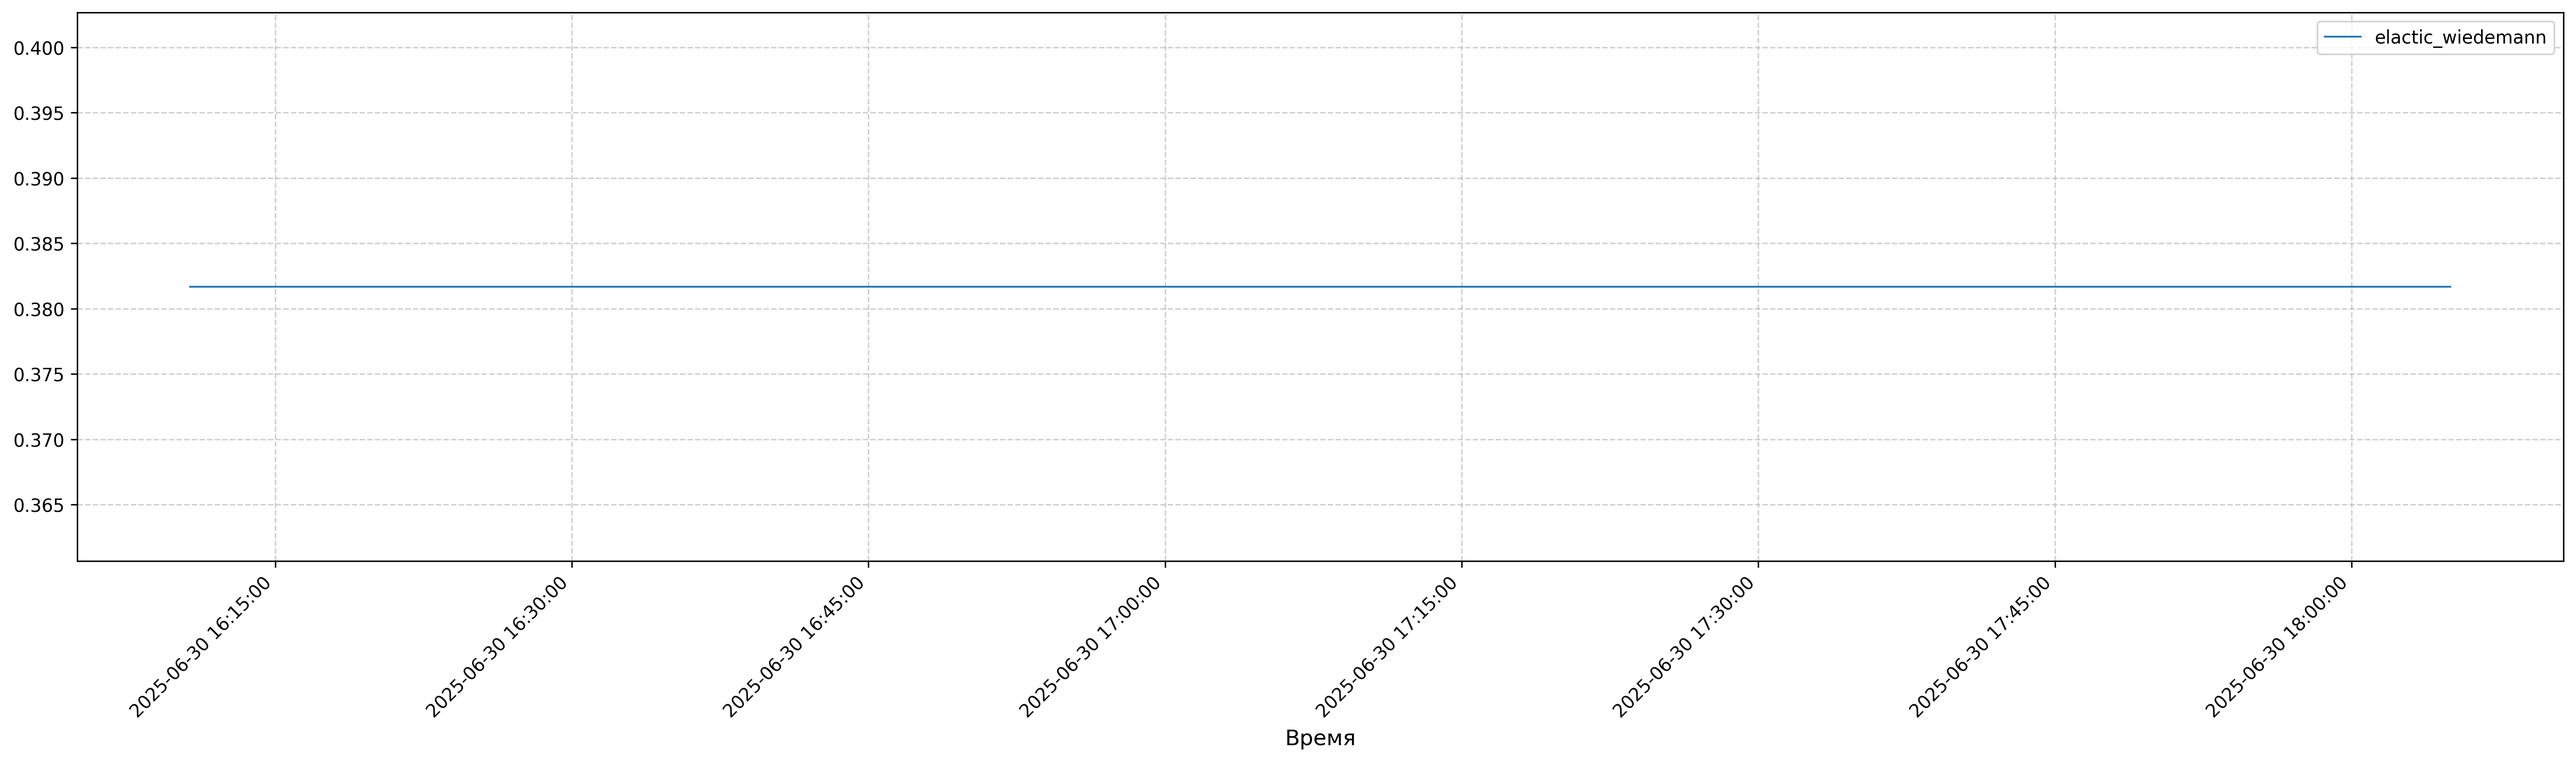
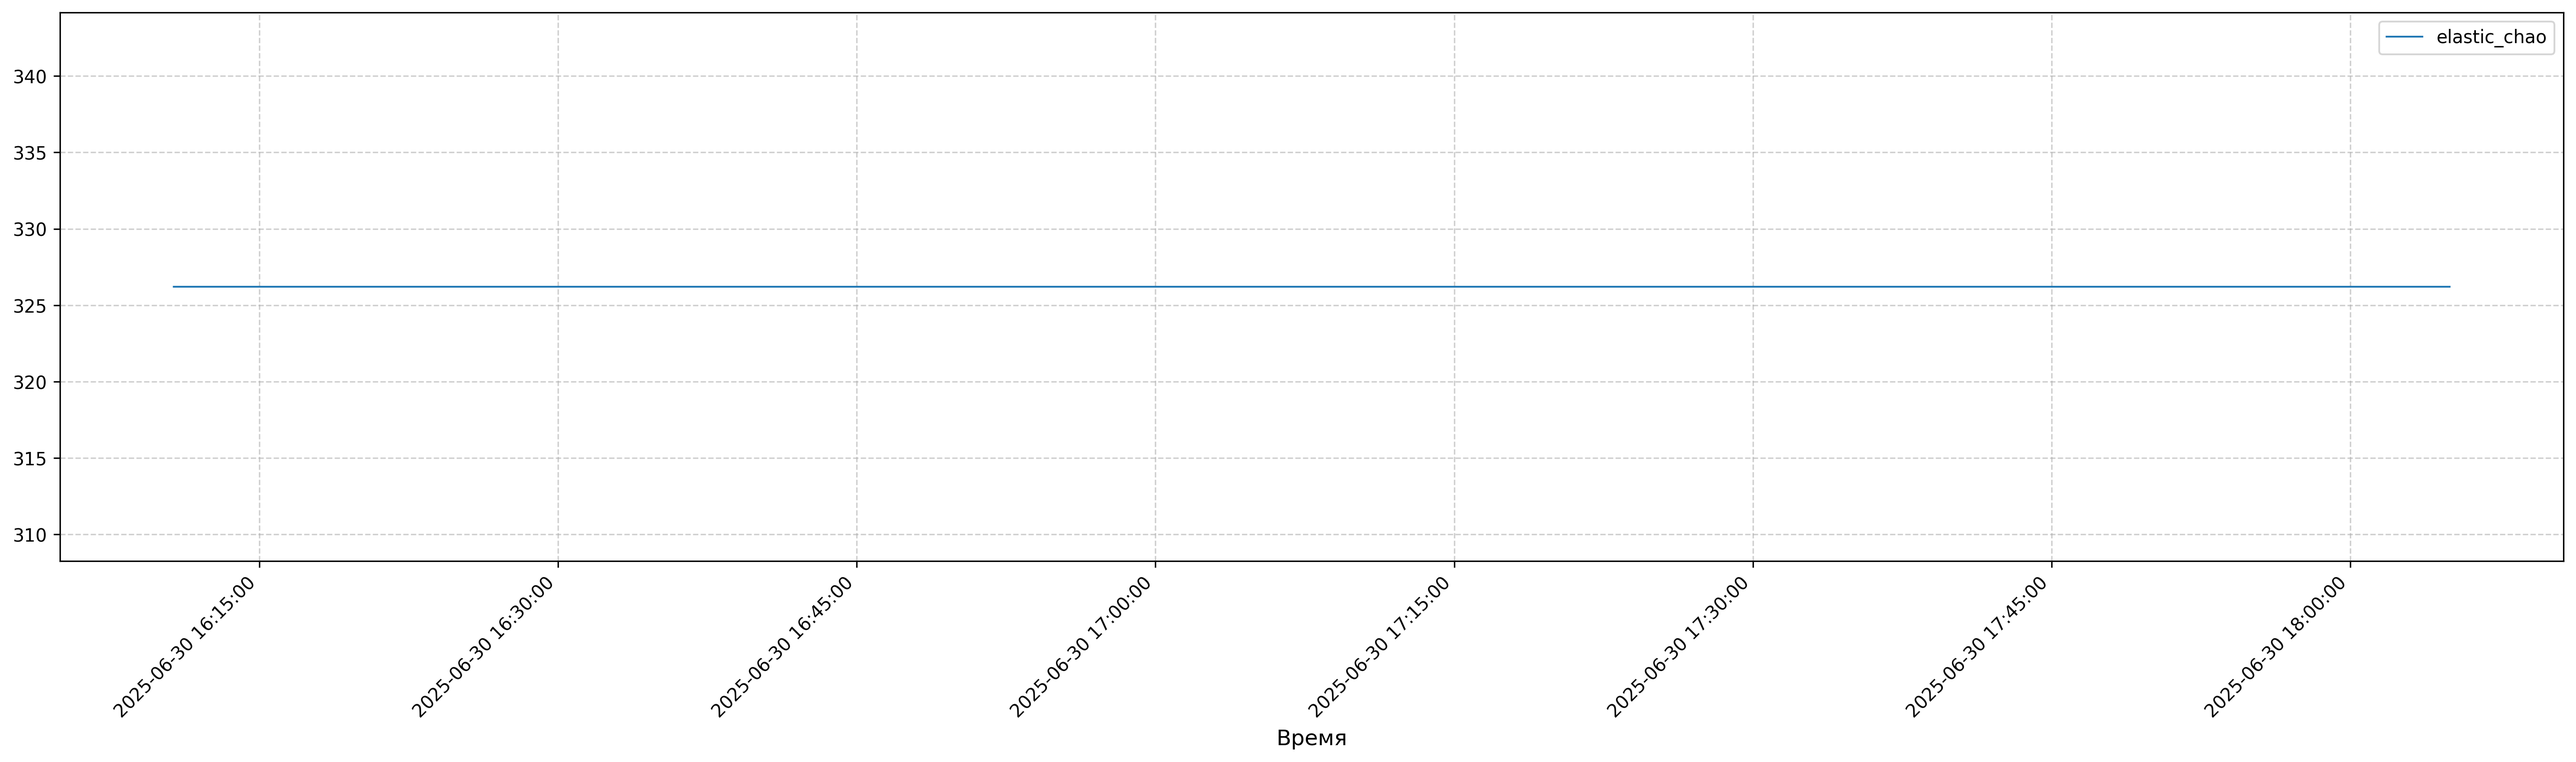
some refactoring

diff --git a/scat.py b/scat.py
@@ -5,8 +5,8 @@ import CONSTANTS_CONFIG
 
 from scattering.exponential_decay import exponential_decay_scattering
 from scattering.pascal_adapted import pascal_scattering
-from scattering.elastic import elactic_scattering_wiedemann, elactic_scattering_wiedemann2, elactic_scattering_chao, elactic_e
-from scattering.bremstahlung import bremstahlung_scattering_wiedemann, bremstahlung_scattering_chao
+from scattering.elastic import elastic_scattering_wiedemann, elastic_scattering_wiedemann2, elastic_scattering_chao
+from scattering.bremhsstrahlung import bremhsstrahlung_scattering_wiedemann, bremhsstrahlung_scattering_chao
 
 class _aux_Data:
     pass
@@ -127,9 +127,9 @@ if __name__ == "__main__":
 
 	theta_max = 1e-2  # Фиксированное малое значение для оценки
 	p_CGS = CONSTANTS_CONFIG.siberia2.gamma * CONSTANTS_CONFIG.siberia2.beta * CONSTANTS_CONFIG.CGS.e_mass * CONSTANTS_CONFIG.CGS.c
-	lifetime.elactic_wiedemann = df_current_predefined.copy()
-	lifetime.elactic_wiedemann['tag'] = 'elactic_wiedemann'
-	lifetime.elactic_wiedemann['value'] = elactic_scattering_wiedemann(
+	lifetime.elastic_wiedemann = df_current_predefined.copy()
+	lifetime.elastic_wiedemann['tag'] = 'elastic_wiedemann'
+	lifetime.elastic_wiedemann['value'] = elastic_scattering_wiedemann(
 														beta=CONSTANTS_CONFIG.siberia2.beta, 
 														P_Torr=CONSTANTS_CONFIG.siberia2.P_Torr, 
 														z=1,
@@ -139,35 +139,35 @@ if __name__ == "__main__":
 
 	# ################################################################################
 
-	# lifetime.elactic_wiedemann2 = df_current_predefined.copy()
-	# lifetime.elactic_wiedemann2['tag'] = 'elactic_wiedemann2'
-	# lifetime.elactic_wiedemann2['value'] = elactic_scattering_wiedemann2( 2.5,
-	# 																  CONSTANTS_CONFIG.siberia2.eA_mm_mrad,
-	# 																  CONSTANTS_CONFIG.siberia2.AverageBetatronFunction,
-	# 																  CONSTANTS_CONFIG.siberia2.P_Torr * 1e9 )
+	lifetime.elastic_wiedemann2 = df_current_predefined.copy()
+	lifetime.elastic_wiedemann2['tag'] = 'elastic_wiedemann2'
+	lifetime.elastic_wiedemann2['value'] = elastic_scattering_wiedemann2( 2.5,
+																	  CONSTANTS_CONFIG.siberia2.eA_mm_mrad,
+																	  CONSTANTS_CONFIG.siberia2.AverageBetatronFunction,
+																	  CONSTANTS_CONFIG.siberia2.P_Torr * 1e9 )
 
 	# ################################################################################
 
 	# lifetime.brem_wiedemann = df_current_predefined.copy()
-	# lifetime.brem_wiedemann['tag'] = 'bremstahlung_wiedemann'
-	# lifetime.brem_wiedemann['value'] = bremstahlung_scattering_wiedemann(
+	# lifetime.brem_wiedemann['tag'] = 'bremhsstrahlung_wiedemann'
+	# lifetime.brem_wiedemann['value'] = bremhsstrahlung_scattering_wiedemann(
 	# 													P_Torr=CONSTANTS_CONFIG.siberia2.P_Torr,
 	# 													energy_acceptance=0.02)
 
  	# ################################################################################
 
-	# lifetime.elactic_chao = df_current_predefined.copy()
-	# lifetime.elactic_chao['tag'] = 'elactic_chao'
-	# lifetime.elactic_chao['value'] = elactic_scattering_chao(
-	# 	beta=CONSTANTS_CONFIG.siberia2.beta,
-	# 	nZ=CONSTANTS_CONFIG.n_Z_avg,
-	# 	Z=CONSTANTS_CONFIG.Z_avg,
-	# 	A_acceptance=CONSTANTS_CONFIG.siberia2.eA,
-	# 	beta_func_value=CONSTANTS_CONFIG.siberia2.AverageBetatronFunction,
-	# 	gamma=CONSTANTS_CONFIG.siberia2.gamma,
-	# 	P_Torr=CONSTANTS_CONFIG.siberia2.P_Torr,
-	# 	T_K=290
-	# ) 
+	lifetime.elastic_chao = df_current_predefined.copy()
+	lifetime.elastic_chao['tag'] = 'elastic_chao'
+	lifetime.elastic_chao['value'] = elastic_scattering_chao(
+		beta=CONSTANTS_CONFIG.siberia2.beta,
+		nZ=CONSTANTS_CONFIG.n_Z_avg,
+		Z=CONSTANTS_CONFIG.Z_avg,
+		A_acceptance=CONSTANTS_CONFIG.siberia2.eA,
+		beta_func_value=CONSTANTS_CONFIG.siberia2.AverageBetatronFunction,
+		gamma=CONSTANTS_CONFIG.siberia2.gamma,
+		P_Torr=CONSTANTS_CONFIG.siberia2.P_Torr,
+		T_K=CONSTANTS_CONFIG.T_gas_K
+	) 
 
 	# ################################################################################
 
@@ -190,8 +190,8 @@ if __name__ == "__main__":
 	# print(X0)
 	# X0 = 3725
 	# lifetime.brem_chao = df_current_predefined.copy()
-	# lifetime.brem_chao['tag'] = 'bremstahlung_chao'
-	# lifetime.brem_chao['value'] = bremstahlung_scattering_chao(beta=CONSTANTS_CONFIG.siberia2.beta,
+	# lifetime.brem_chao['tag'] = 'bremhsstrahlung_chao'
+	# lifetime.brem_chao['value'] = bremhsstrahlung_scattering_chao(beta=CONSTANTS_CONFIG.siberia2.beta,
 	# 															nZ=CONSTANTS_CONFIG.n_Z_avg,
 	# 															A=10e-3,
 	# 															X0=X0,
@@ -201,7 +201,7 @@ if __name__ == "__main__":
 
 	# ################################################################################
 
-	# tau_e = elactic_e(CONSTANTS_CONFIG.siberia2.gamma,
+	# tau_e = elastic_e(CONSTANTS_CONFIG.siberia2.gamma,
 	# 			   7,
 	# 			   CONSTANTS_CONFIG.siberia2.AverageBetatronXFunction,
 	# 			   CONSTANTS_CONFIG.siberia2.AverageBetatronYFunction,
@@ -221,11 +221,12 @@ if __name__ == "__main__":
 			# lifetime.simple
 			# ,
 			# lifetime.pascal ,
-			lifetime.elactic_wiedemann
+			# lifetime.elastic_wiedemann
 			# ,
-			# lifetime.elactic_wiedemann2
+			# lifetime.elastic_wiedemann2
 			# ,
-			# lifetime.elactic_chao,
+			lifetime.elastic_chao
+			# ,
 			# lifetime.brem_wiedemann,
 			# lifetime.brem_chao
 			],

diff --git a/scattering/elastic.py b/scattering/elastic.py
@@ -3,7 +3,7 @@ import CONSTANTS_CONFIG
 import numpy as np
 from scipy import constants
 
-def elactic_scattering_wiedemann(beta, P_Torr, z, Z, p, theta_max):
+def elastic_scattering_wiedemann(beta, P_Torr, z, Z, p, theta_max):
 	"""
 	Вычисляет время жизни пучка из-за рассеяния на остаточном газе в системе CGS.
 
@@ -39,7 +39,7 @@ def elactic_scattering_wiedemann(beta, P_Torr, z, Z, p, theta_max):
 
 	return tau_hours
 
-def elactic_scattering_wiedemann2(p_CGS, eA, b_m, P_nTorr):
+def elastic_scattering_wiedemann2(p_CGS, eA, b_m, P_nTorr):
 	"""
 	Вычисляет время жизни пучка из-за рассеяния на остаточном газе в системе CGS.
 
@@ -58,7 +58,7 @@ def elactic_scattering_wiedemann2(p_CGS, eA, b_m, P_nTorr):
 
 	return tau_hours
 
-def elactic_scattering_chao(beta, nZ, Z, A_acceptance, beta_func_value, gamma, P_Torr, T_K):
+def elastic_scattering_chao(beta, nZ, Z, A_acceptance, beta_func_value, gamma, P_Torr, T_K):
 	"""
 
 	handbook_of_accelerator_physics_and_engineering_2ed_chao.pdf стр 272
@@ -86,18 +86,3 @@ def elactic_scattering_chao(beta, nZ, Z, A_acceptance, beta_func_value, gamma, P
 	tau = 1 / inv / 3600
 
 	return tau
-
-
-def elactic_e(gamma, Z, beta_x, beta_y, beta_avg, A_x, A_y, P):
-	r_e, _, _ = CONSTANTS_CONFIG.constants.physical_constants['classical electron radius']
-
-	n_A = 7.07e22
-
-	paren = beta_avg * beta_x / A_x**2 + beta_avg * beta_y / A_y**2
-
-	inv = 2 * np.pi * ( r_e / gamma )**2 * Z * ( Z + 1 ) * CONSTANTS_CONFIG.constants.c * n_A * P * paren
-
-	tau = 1 / inv / 3600
-
-	return tau
-

diff --git a/CONSTANTS_CONFIG.py b/CONSTANTS_CONFIG.py
@@ -38,7 +38,6 @@ siberia2.AverageBetatronFunction = ( siberia2.AverageBetatronXFunction + siberia
 siberia2.HorizontalAperture = 20e-3 
 siberia2.VerticalAperture = 12e-3 
 siberia2.eA = 10e-3**2 / siberia2.AverageBetatronFunction 
-print("eA = ", siberia2.eA)
 siberia2.eA_mm_mrad = 10 # check this
 siberia2.P_Pa = 1E-7
 siberia2.P_Torr = siberia2.P_Pa * ( 7.50062 * 1E-3 )
@@ -46,24 +45,6 @@ siberia2.RevolutionFrequency = 2.4147E6
 siberia2.Energy_GeV = 2.5
 siberia2.gamma = siberia2.Energy_GeV / 0.511e-3
 
-
-
-# # данные об ускорителе Сибирь-2
-# class _aux_Siberia2:
-#     pass
-# siberia2 = _aux_Siberia2()
-
-# siberia2.beta = 1
-# siberia2.AverageBetatronXFunction = 10
-# siberia2.AverageBetatronYFunction = 5
-# siberia2.AverageBetatronFunction = ( siberia2.AverageBetatronXFunction + siberia2.AverageBetatronYFunction ) / 2
-# siberia2.eA = 50 # beam chamber radius
-# siberia2.eA_mm_mrad = 10 # check this
-# siberia2.P_Pa = 1E-7
-# siberia2.P_Torr = siberia2.P_Pa * ( 7.50062 * 1E-3 )
-# siberia2.RevolutionFrequency = 2.4147E6
-# siberia2.Energy_GeV = 2.3
-# siberia2.gamma = siberia2.Energy_GeV / 0.511e-3
 
 
 

diff --git a/scattering/bremhsstrahlung.py b/scattering/bremhsstrahlung.py
@@ -1,7 +1,7 @@
 import math
 from scipy import constants
 
-def bremstahlung_scattering_wiedemann(P_Torr, energy_acceptance):
+def bremhsstrahlung_scattering_wiedemann(P_Torr, energy_acceptance):
 	"""
 	
 	particle_accelerator_physics_3ed_wiedemann.pdf стр 328
@@ -18,7 +18,7 @@ def bremstahlung_scattering_wiedemann(P_Torr, energy_acceptance):
 	return tau
 
 
-def bremstahlung_scattering_chao(beta, nZ,  A, X0, dp_p_lim_acceptance, P_Torr, T_K):
+def bremhsstrahlung_scattering_chao(beta, nZ,  A, X0, dp_p_lim_acceptance, P_Torr, T_K):
 	"""
 	
 	handbook_of_accelerator_physics_and_engineering_2ed_chao.pdf стр 272
